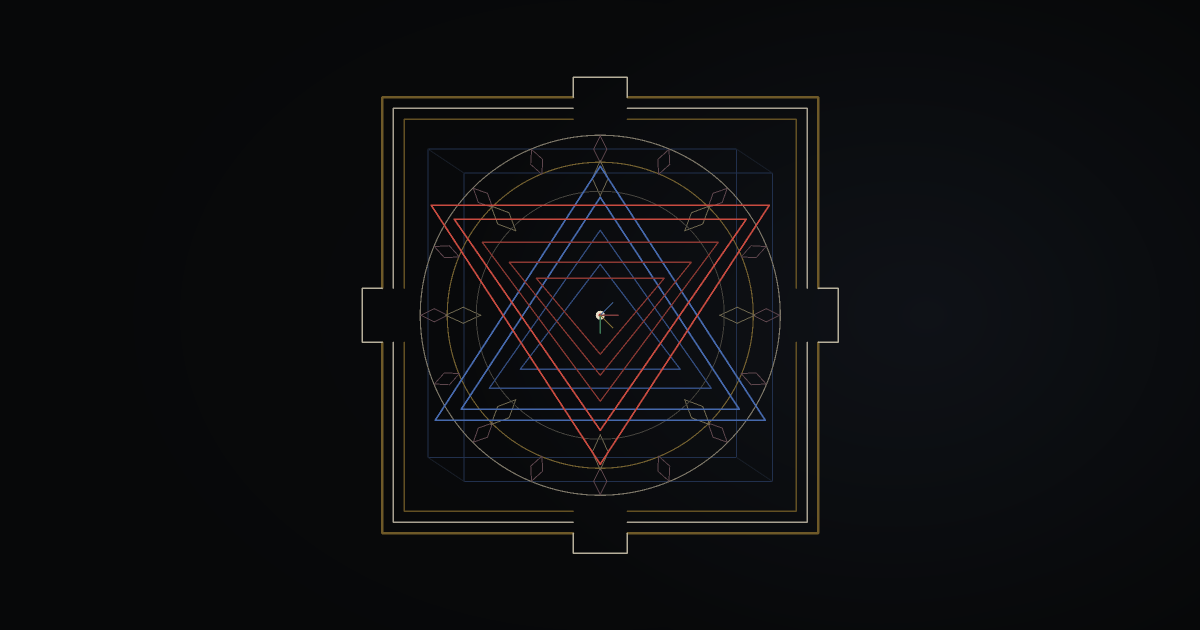
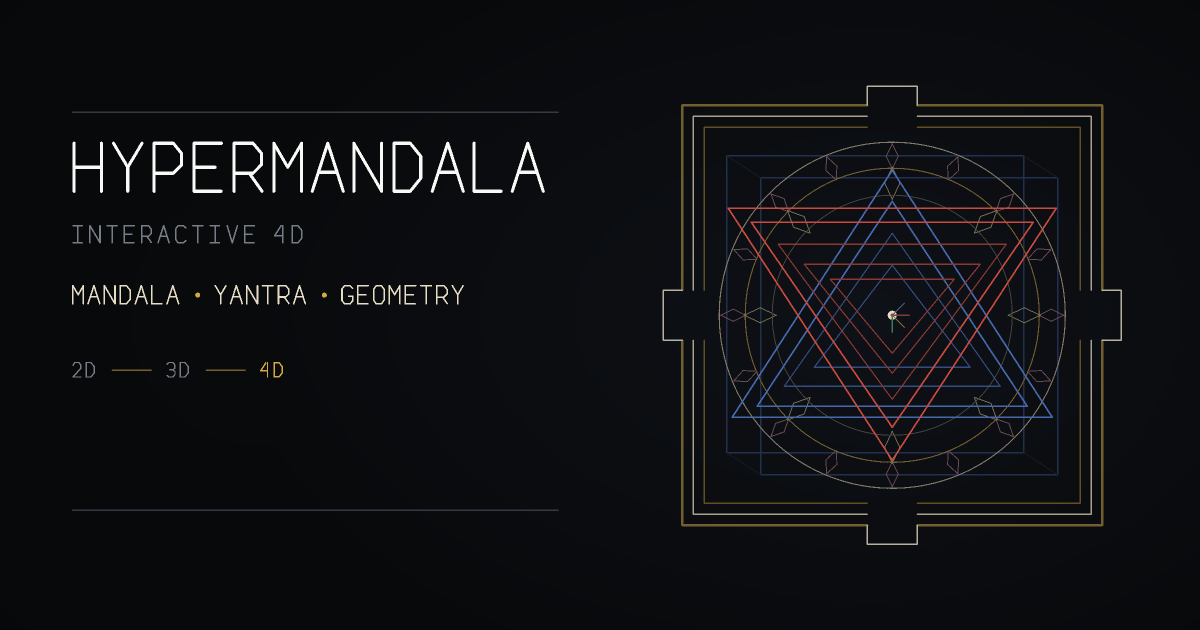
Add interface-style text to Hypermandala social preview

diff --git a/public/index.html b/public/index.html
@@ -23,12 +23,12 @@
     content="Explore mandalas, yantras and geometric forms as exact 2D plans unfold into interactive 3D structures and experimental 4D extensions."
   />
   <meta property="og:url" content="https://hypermandala.mariomarcolongo.com/" />
-  <meta property="og:image" content="https://hypermandala.mariomarcolongo.com/og-hypermandala-v5.png" />
-  <meta property="og:image:secure_url" content="https://hypermandala.mariomarcolongo.com/og-hypermandala-v5.png" />
+  <meta property="og:image" content="https://hypermandala.mariomarcolongo.com/og-hypermandala-v6.png" />
+  <meta property="og:image:secure_url" content="https://hypermandala.mariomarcolongo.com/og-hypermandala-v6.png" />
   <meta property="og:image:width" content="1200" />
   <meta property="og:image:height" content="630" />
   <meta property="og:image:type" content="image/png" />
-  <meta property="og:image:alt" content="Hypermandala preview with a geometric Sri Yantra and subtle projected higher-dimensional structure" />
+  <meta property="og:image:alt" content="Hypermandala — Interactive 4D Mandala, Yantra & Geometry Explorer, with a geometric Sri Yantra preview" />
 
   <meta name="twitter:card" content="summary_large_image" />
   <meta name="twitter:title" content="Hypermandala — Interactive 4D Mandala, Yantra & Geometry Explorer" />
@@ -36,8 +36,8 @@
     name="twitter:description"
     content="Explore mandalas, yantras and geometric forms across exact 2D plans, interactive 3D structures and experimental 4D extensions."
   />
-  <meta name="twitter:image" content="https://hypermandala.mariomarcolongo.com/og-hypermandala-v5.png" />
-  <meta name="twitter:image:alt" content="Hypermandala preview with a geometric Sri Yantra and subtle projected higher-dimensional structure" />
+  <meta name="twitter:image" content="https://hypermandala.mariomarcolongo.com/og-hypermandala-v6.png" />
+  <meta name="twitter:image:alt" content="Hypermandala — Interactive 4D Mandala, Yantra & Geometry Explorer, with a geometric Sri Yantra preview" />
 
   <title>Hypermandala — Interactive 4D Mandala, Yantra & Geometry Explorer</title>
 
@@ -49,7 +49,7 @@
     "alternateName": "Interactive 4D Mandala, Yantra & Geometry Explorer",
     "url": "https://hypermandala.mariomarcolongo.com/",
     "description": "An interactive browser-based explorer for mandalas, yantras and geometric forms across exact 2D plans, interactive 3D structures and experimental four-dimensional extensions.",
-    "image": "https://hypermandala.mariomarcolongo.com/og-hypermandala-v5.png",
+    "image": "https://hypermandala.mariomarcolongo.com/og-hypermandala-v6.png",
     "applicationCategory": "EducationalApplication",
     "operatingSystem": "Any",
     "isAccessibleForFree": true,
